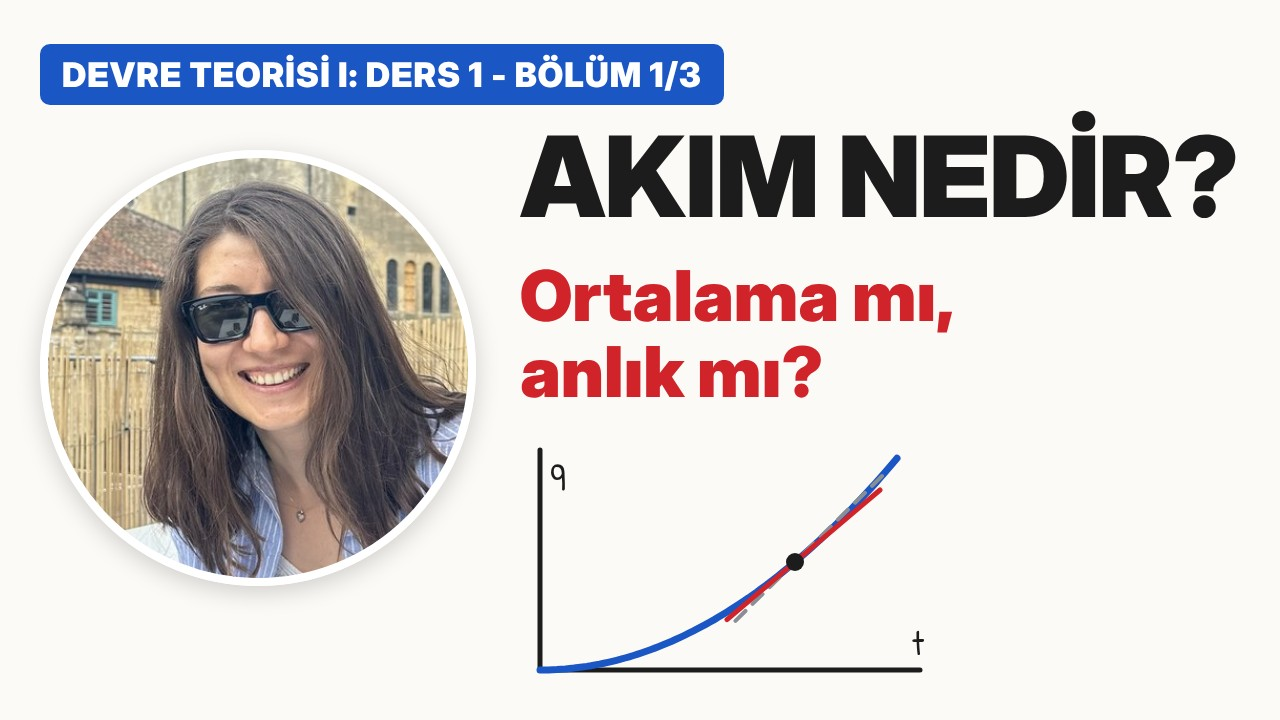
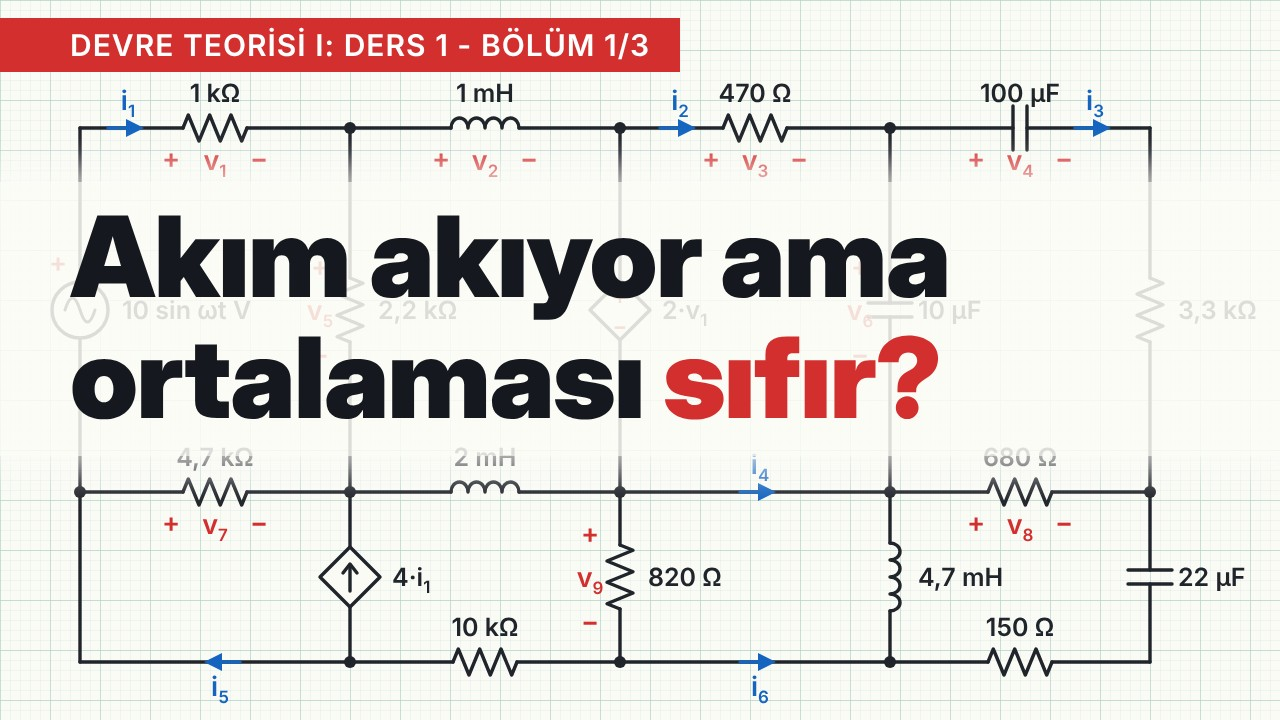
İş emri J: B1 kapak A 6-D tarzı devreyle (kareli zemin, 8 çevre, 2 bağımlı kaynak); eski kapak -eski.jpg; yayin.json başlık A; küçük boyut testi
Claude-Session: https://claude.ai/code/session_01Bss84zN8K5Kp8mdQpGyqaB

diff --git a/uzun/kapak-6-d/html/1-1-a.html b/uzun/kapak-6-d/html/1-1-a.html
@@ -1,0 +1,24 @@
+<!doctype html><meta charset="utf-8"><style>@font-face{font-family:IDB;src:url(../../../tools/vendor/fonts/InterDisplay-Black.otf)}
+@font-face{font-family:ISB;src:url(../../../tools/vendor/fonts/Inter-SemiBold.otf)}
+html,body{margin:0}
+.k{position:relative;width:1280px;height:720px;overflow:hidden;background:#fbfbf6}
+.devre{position:absolute;inset:0;width:1280px;height:720px}
+.devre .g1{fill:none;stroke:#b9d6cf;stroke-width:.7;opacity:.55}
+.devre .g2{fill:none;stroke:#8fbfb4;stroke-width:1.3;opacity:.6}
+.sema line,.sema polyline,.sema path,.sema circle,.sema polygon{stroke:#20242b;stroke-width:3.4;fill:none;stroke-linecap:round;stroke-linejoin:round}
+.sema .src{fill:#fbfbf6}
+.sema .sin{stroke-width:3}
+.sema circle.d{fill:#20242b;stroke:none}
+.sema text{font-family:ISB;font-size:25px;fill:#20242b}
+.sema text .sub{font-size:17px}
+.sema text.p{fill:#d32f2f;font-size:27px}
+.sema text.pk{font-size:22px;fill:#d32f2f}
+.sema text.a{fill:#1565c0;font-size:27px}
+.sema line.ab{stroke:#1565c0;stroke-width:3.4}
+.sema polygon.a{fill:#1565c0;stroke:none}
+.bant{position:absolute;left:0;right:0;top:182px;height:274px;background:rgba(251,251,246,.86);box-shadow:0 0 30px 18px rgba(251,251,246,.7)}
+.yazi{position:absolute;left:70px;top:196px;width:1140px}
+.s1,.s2{font-family:IDB;color:#15191f;font-size:112px;line-height:1.08;letter-spacing:-1.5px;white-space:nowrap}
+.s2 em{font-style:normal;color:#d32f2f}
+.serit{position:absolute;left:0;top:18px;background:#d32f2f;color:#fff;font-family:ISB;font-size:30px;letter-spacing:1px;padding:9px 30px 9px 70px}
+</style><body><div class="k"><svg class="devre" viewBox="0 0 1280 720" xmlns="http://www.w3.org/2000/svg"><defs><pattern id="mm" width="10" height="10" patternUnits="userSpaceOnUse"><path d="M10,0 L0,0 0,10" class="g1"/></pattern><pattern id="cm" width="50" height="50" patternUnits="userSpaceOnUse"><rect width="50" height="50" fill="url(#mm)"/><path d="M50,0 L0,0 0,50" class="g2"/></pattern></defs><rect width="1280" height="720" fill="url(#cm)"/><g class="sema"><line x1="80" y1="128" x2="183.0" y2="128.0"/><line x1="247.0" y1="128.0" x2="350" y2="128"/><g transform="translate(215.0,128.0) rotate(0)"><polyline points="-32.0,0.0 -26.7,-13.0 -16.0,13.0 -5.3,-13.0 5.3,13.0 16.0,-13.0 26.7,13.0 32.0,0.0"/></g><text x="215" y="102" class="l" text-anchor="middle">1 kΩ</text><text x="171" y="168" class="p" text-anchor="middle">+</text><text x="259" y="168" class="p" text-anchor="middle">−</text><text x="215" y="170" class="p" text-anchor="middle">v<tspan class="sub" dy="7">1</tspan></text><line x1="350" y1="128" x2="451.0" y2="128.0"/><line x1="519.0" y1="128.0" x2="620" y2="128"/><g transform="translate(485.0,128.0) rotate(0)"><path d="M-34,0 a8.5,10 0 0 1 17,0 a8.5,10 0 0 1 17,0 a8.5,10 0 0 1 17,0 a8.5,10 0 0 1 17,0"/></g><text x="485" y="102" class="l" text-anchor="middle">1 mH</text><text x="441" y="168" class="p" text-anchor="middle">+</text><text x="529" y="168" class="p" text-anchor="middle">−</text><text x="485" y="170" class="p" text-anchor="middle">v<tspan class="sub" dy="7">2</tspan></text><line x1="620" y1="128" x2="723.0" y2="128.0"/><line x1="787.0" y1="128.0" x2="890" y2="128"/><g transform="translate(755.0,128.0) rotate(0)"><polyline points="-32.0,0.0 -26.7,-13.0 -16.0,13.0 -5.3,-13.0 5.3,13.0 16.0,-13.0 26.7,13.0 32.0,0.0"/></g><text x="755" y="102" class="l" text-anchor="middle">470 Ω</text><text x="711" y="168" class="p" text-anchor="middle">+</text><text x="799" y="168" class="p" text-anchor="middle">−</text><text x="755" y="170" class="p" text-anchor="middle">v<tspan class="sub" dy="7">3</tspan></text><line x1="890" y1="128" x2="1013.0" y2="128.0"/><line x1="1027.0" y1="128.0" x2="1150" y2="128"/><g transform="translate(1020.0,128.0) rotate(0)"><line x1="-7" y1="-22" x2="-7" y2="22"/><line x1="7" y1="-22" x2="7" y2="22"/></g><text x="1020" y="102" class="l" text-anchor="middle">100 µF</text><text x="976" y="168" class="p" text-anchor="middle">+</text><text x="1064" y="168" class="p" text-anchor="middle">−</text><text x="1020" y="170" class="p" text-anchor="middle">v<tspan class="sub" dy="7">4</tspan></text><line x1="80" y1="492" x2="80.0" y2="338.0"/><line x1="80.0" y1="282.0" x2="80" y2="128"/><g transform="translate(80.0,310.0) rotate(0)"><circle cx="0" cy="0" r="28" class="src"/><path d="M-15,0 C-10,-16 -5,-16 0,0 S10,16 15,0" class="sin"/></g><text x="58" y="272" class="p" text-anchor="middle">+</text><text x="122" y="319" class="l" text-anchor="start">10 sin ωt V</text><line x1="350" y1="128" x2="350.0" y2="278.0"/><line x1="350.0" y1="342.0" x2="350" y2="492"/><g transform="translate(350.0,310.0) rotate(90)"><polyline points="-32.0,0.0 -26.7,-13.0 -16.0,13.0 -5.3,-13.0 5.3,13.0 16.0,-13.0 26.7,13.0 32.0,0.0"/></g><text x="378" y="319" class="l" text-anchor="start">2,2 kΩ</text><text x="320" y="276" class="p" text-anchor="middle">+</text><text x="320" y="364" class="p" text-anchor="middle">−</text><text x="320" y="320" class="p" text-anchor="middle">v<tspan class="sub" dy="7">5</tspan></text><line x1="620" y1="128" x2="620.0" y2="280.0"/><line x1="620.0" y1="340.0" x2="620" y2="492"/><g transform="translate(620.0,310.0) rotate(90)"><polygon points="-30,0 0,-30 30,0 0,30" class="src"/></g><text x="620" y="304" class="pk" text-anchor="middle">+</text><text x="620" y="334" class="pk" text-anchor="middle">−</text><text x="662" y="319" class="l" text-anchor="start">2·v<tspan class="sub" dy="7">1</tspan></text><line x1="890" y1="128" x2="890.0" y2="303.0"/><line x1="890.0" y1="317.0" x2="890" y2="492"/><g transform="translate(890.0,310.0) rotate(90)"><line x1="-7" y1="-22" x2="-7" y2="22"/><line x1="7" y1="-22" x2="7" y2="22"/></g><text x="918" y="319" class="l" text-anchor="start">10 µF</text><text x="860" y="276" class="p" text-anchor="middle">+</text><text x="860" y="364" class="p" text-anchor="middle">−</text><text x="860" y="320" class="p" text-anchor="middle">v<tspan class="sub" dy="7">6</tspan></text><line x1="1150" y1="128" x2="1150.0" y2="278.0"/><line x1="1150.0" y1="342.0" x2="1150" y2="492"/><g transform="translate(1150.0,310.0) rotate(90)"><polyline points="-32.0,0.0 -26.7,-13.0 -16.0,13.0 -5.3,-13.0 5.3,13.0 16.0,-13.0 26.7,13.0 32.0,0.0"/></g><text x="1178" y="319" class="l" text-anchor="start">3,3 kΩ</text><line x1="80" y1="492" x2="183.0" y2="492.0"/><line x1="247.0" y1="492.0" x2="350" y2="492"/><g transform="translate(215.0,492.0) rotate(0)"><polyline points="-32.0,0.0 -26.7,-13.0 -16.0,13.0 -5.3,-13.0 5.3,13.0 16.0,-13.0 26.7,13.0 32.0,0.0"/></g><text x="215" y="466" class="l" text-anchor="middle">4,7 kΩ</text><text x="171" y="532" class="p" text-anchor="middle">+</text><text x="259" y="532" class="p" text-anchor="middle">−</text><text x="215" y="534" class="p" text-anchor="middle">v<tspan class="sub" dy="7">7</tspan></text><line x1="350" y1="492" x2="451.0" y2="492.0"/><line x1="519.0" y1="492.0" x2="620" y2="492"/><g transform="translate(485.0,492.0) rotate(0)"><path d="M-34,0 a8.5,10 0 0 1 17,0 a8.5,10 0 0 1 17,0 a8.5,10 0 0 1 17,0 a8.5,10 0 0 1 17,0"/></g><text x="485" y="466" class="l" text-anchor="middle">2 mH</text><line x1="620" y1="492" x2="890" y2="492"/><line x1="890" y1="492" x2="988.0" y2="492.0"/><line x1="1052.0" y1="492.0" x2="1150" y2="492"/><g transform="translate(1020.0,492.0) rotate(0)"><polyline points="-32.0,0.0 -26.7,-13.0 -16.0,13.0 -5.3,-13.0 5.3,13.0 16.0,-13.0 26.7,13.0 32.0,0.0"/></g><text x="1020" y="466" class="l" text-anchor="middle">680 Ω</text><text x="976" y="532" class="p" text-anchor="middle">+</text><text x="1064" y="532" class="p" text-anchor="middle">−</text><text x="1020" y="534" class="p" text-anchor="middle">v<tspan class="sub" dy="7">8</tspan></text><line x1="80" y1="492" x2="80" y2="662"/><line x1="350" y1="662" x2="350.0" y2="607.0"/><line x1="350.0" y1="547.0" x2="350" y2="492"/><g transform="translate(350.0,577.0) rotate(270)"><polygon points="-30,0 0,-30 30,0 0,30" class="src"/><line x1="-14" y1="0" x2="12" y2="0"/><polyline points="4,-7 13,0 4,7"/></g><text x="392" y="586" class="l" text-anchor="start">4·i<tspan class="sub" dy="7">1</tspan></text><line x1="620" y1="492" x2="620.0" y2="545.0"/><line x1="620.0" y1="609.0" x2="620" y2="662"/><g transform="translate(620.0,577.0) rotate(90)"><polyline points="-32.0,0.0 -26.7,-13.0 -16.0,13.0 -5.3,-13.0 5.3,13.0 16.0,-13.0 26.7,13.0 32.0,0.0"/></g><text x="648" y="586" class="l" text-anchor="start">820 Ω</text><text x="590" y="543" class="p" text-anchor="middle">+</text><text x="590" y="631" class="p" text-anchor="middle">−</text><text x="590" y="587" class="p" text-anchor="middle">v<tspan class="sub" dy="7">9</tspan></text><line x1="890" y1="492" x2="890.0" y2="543.0"/><line x1="890.0" y1="611.0" x2="890" y2="662"/><g transform="translate(890.0,577.0) rotate(90)"><path d="M-34,0 a8.5,10 0 0 1 17,0 a8.5,10 0 0 1 17,0 a8.5,10 0 0 1 17,0 a8.5,10 0 0 1 17,0"/></g><text x="918" y="586" class="l" text-anchor="start">4,7 mH</text><line x1="1150" y1="492" x2="1150.0" y2="570.0"/><line x1="1150.0" y1="584.0" x2="1150" y2="662"/><g transform="translate(1150.0,577.0) rotate(90)"><line x1="-7" y1="-22" x2="-7" y2="22"/><line x1="7" y1="-22" x2="7" y2="22"/></g><text x="1178" y="586" class="l" text-anchor="start">22 µF</text><line x1="80" y1="662" x2="350" y2="662"/><line x1="350" y1="662" x2="453.0" y2="662.0"/><line x1="517.0" y1="662.0" x2="620" y2="662"/><g transform="translate(485.0,662.0) rotate(0)"><polyline points="-32.0,0.0 -26.7,-13.0 -16.0,13.0 -5.3,-13.0 5.3,13.0 16.0,-13.0 26.7,13.0 32.0,0.0"/></g><text x="485" y="636" class="l" text-anchor="middle">10 kΩ</text><line x1="620" y1="662" x2="890" y2="662"/><line x1="890" y1="662" x2="988.0" y2="662.0"/><line x1="1052.0" y1="662.0" x2="1150" y2="662"/><g transform="translate(1020.0,662.0) rotate(0)"><polyline points="-32.0,0.0 -26.7,-13.0 -16.0,13.0 -5.3,-13.0 5.3,13.0 16.0,-13.0 26.7,13.0 32.0,0.0"/></g><text x="1020" y="636" class="l" text-anchor="middle">150 Ω</text><circle cx="350" cy="128" r="6" class="d"/><circle cx="350" cy="662" r="6" class="d"/><circle cx="620" cy="128" r="6" class="d"/><circle cx="620" cy="662" r="6" class="d"/><circle cx="890" cy="128" r="6" class="d"/><circle cx="890" cy="662" r="6" class="d"/><circle cx="80" cy="492" r="6" class="d"/><circle cx="350" cy="492" r="6" class="d"/><circle cx="620" cy="492" r="6" class="d"/><circle cx="890" cy="492" r="6" class="d"/><circle cx="1150" cy="492" r="6" class="d"/><line class="ab" x1="108" y1="128" x2="134" y2="128"/><polygon class="a" points="144,128 126,137 126,119"/><text x="128" y="110" class="a" text-anchor="middle">i<tspan class="sub" dy="7">1</tspan></text><line class="ab" x1="660" y1="128" x2="686" y2="128"/><polygon class="a" points="696,128 678,137 678,119"/><text x="680" y="110" class="a" text-anchor="middle">i<tspan class="sub" dy="7">2</tspan></text><line class="ab" x1="1075" y1="128" x2="1101" y2="128"/><polygon class="a" points="1111,128 1093,137 1093,119"/><text x="1095" y="110" class="a" text-anchor="middle">i<tspan class="sub" dy="7">3</tspan></text><line class="ab" x1="740" y1="492" x2="766" y2="492"/><polygon class="a" points="776,492 758,501 758,483"/><text x="760" y="474" class="a" text-anchor="middle">i<tspan class="sub" dy="7">4</tspan></text><line class="ab" x1="240" y1="662" x2="214" y2="662"/><polygon class="a" points="204,662 222,653 222,671"/><text x="220" y="696" class="a" text-anchor="middle">i<tspan class="sub" dy="7">5</tspan></text><line class="ab" x1="740" y1="662" x2="766" y2="662"/><polygon class="a" points="776,662 758,671 758,653"/><text x="760" y="696" class="a" text-anchor="middle">i<tspan class="sub" dy="7">6</tspan></text></g></svg><div class="bant"></div><div class="yazi"><div class="s1">Akım akıyor ama</div><div class="s2">ortalaması <em>sıfır?</em></div></div><div class="serit">DEVRE TEORİSİ I: DERS 1 - BÖLÜM 1/3</div></div>

diff --git a/uzun/kapak-6-d/kapak.css b/uzun/kapak-6-d/kapak.css
@@ -1,0 +1,23 @@
+@font-face{font-family:IDB;src:url(../../../tools/vendor/fonts/InterDisplay-Black.otf)}
+@font-face{font-family:ISB;src:url(../../../tools/vendor/fonts/Inter-SemiBold.otf)}
+html,body{margin:0}
+.k{position:relative;width:1280px;height:720px;overflow:hidden;background:#fbfbf6}
+.devre{position:absolute;inset:0;width:1280px;height:720px}
+.devre .g1{fill:none;stroke:#b9d6cf;stroke-width:.7;opacity:.55}
+.devre .g2{fill:none;stroke:#8fbfb4;stroke-width:1.3;opacity:.6}
+.sema line,.sema polyline,.sema path,.sema circle,.sema polygon{stroke:#20242b;stroke-width:3.4;fill:none;stroke-linecap:round;stroke-linejoin:round}
+.sema .src{fill:#fbfbf6}
+.sema .sin{stroke-width:3}
+.sema circle.d{fill:#20242b;stroke:none}
+.sema text{font-family:ISB;font-size:25px;fill:#20242b}
+.sema text .sub{font-size:17px}
+.sema text.p{fill:#d32f2f;font-size:27px}
+.sema text.pk{font-size:22px;fill:#d32f2f}
+.sema text.a{fill:#1565c0;font-size:27px}
+.sema line.ab{stroke:#1565c0;stroke-width:3.4}
+.sema polygon.a{fill:#1565c0;stroke:none}
+.bant{position:absolute;left:0;right:0;top:182px;height:274px;background:rgba(251,251,246,.86);box-shadow:0 0 30px 18px rgba(251,251,246,.7)}
+.yazi{position:absolute;left:70px;top:196px;width:1140px}
+.s1,.s2{font-family:IDB;color:#15191f;font-size:112px;line-height:1.08;letter-spacing:-1.5px;white-space:nowrap}
+.s2 em{font-style:normal;color:#d32f2f}
+.serit{position:absolute;left:0;top:18px;background:#d32f2f;color:#fff;font-family:ISB;font-size:30px;letter-spacing:1px;padding:9px 30px 9px 70px}

diff --git a/uzun/kapak-6-d/devre.py b/uzun/kapak-6-d/devre.py
@@ -1,0 +1,153 @@
+#!/usr/bin/env python3
+"""Kapak arka plan devresi, UZUN.md 6-D tarzı (kanal sahibi 20.11.2026):
+kareli açık zemin, ders kitabı şeması (sinüs kaynak, bağımlı kaynaklar, R/L/C değerleri),
+kırmızı + / − ve v1…v9, mavi akım okları i1…i6, düğüm noktaları. Topolojiler özgündür.
+Kullanım: python3 devre.py  -> uzun/kapak-6-d/html/<ad>.html   (render: node kapak.mjs CIKTI)"""
+import math, os
+HERE = os.path.dirname(os.path.abspath(__file__))
+S = []
+
+def P(s): S.append(s)
+def ln(a, b): P(f'<line x1="{a[0]}" y1="{a[1]}" x2="{b[0]}" y2="{b[1]}"/>')
+def dot(p): P(f'<circle cx="{p[0]}" cy="{p[1]}" r="6" class="d"/>')
+def lab(x, y, base, sub=None, cls='l', anc='middle'):
+    t = f'<text x="{x:.0f}" y="{y:.0f}" class="{cls}" text-anchor="{anc}">{base}'
+    if sub: t += f'<tspan class="sub" dy="7">{sub}</tspan>'
+    P(t + '</text>')
+
+# --- eleman gövdeleri: yerel eksende (0,0)->(L,0) ortalanmış, sonra döndürülür ----------
+def body(kind, Lb):
+    if kind == 'R':
+        pts = [(-32, 0)] + [(-32 + 64 * (k + .5) / 6, -13 if k % 2 == 0 else 13) for k in range(6)] + [(32, 0)]
+        return '<polyline points="' + ' '.join(f'{x:.1f},{y:.1f}' for x, y in pts) + '"/>'
+    if kind == 'L':
+        return '<path d="M-34,0 ' + ' '.join('a8.5,10 0 0 1 17,0' for _ in range(4)) + '"/>'
+    if kind == 'C':
+        return '<line x1="-7" y1="-22" x2="-7" y2="22"/><line x1="7" y1="-22" x2="7" y2="22"/>'
+    if kind == 'AC':  # sinüs gerilim kaynağı
+        return ('<circle cx="0" cy="0" r="28" class="src"/>'
+                '<path d="M-15,0 C-10,-16 -5,-16 0,0 S10,16 15,0" class="sin"/>')
+    if kind in ('DV', 'DI'):  # bağımlı kaynak: eşkenar dörtgen
+        s = '<polygon points="-30,0 0,-30 30,0 0,30" class="src"/>'
+        if kind == 'DI':  # yerel eksen yönünde ok (akım kaynağı)
+            s += '<line x1="-14" y1="0" x2="12" y2="0"/><polyline points="4,-7 13,0 4,7"/>'
+        return s
+    return ''
+HALF = {'R': 32, 'L': 34, 'C': 7, 'AC': 28, 'DV': 30, 'DI': 30, 'W': 0}
+
+def el(kind, a, b, val=None, v=None, flip=False, vsub=None):
+    """a->b yatay veya dikey eleman. val: değer etiketi (siyah). v: gerilim etiketi alt simgesi
+    (kırmızı + a tarafında, − b tarafında; flip=True ters). Bağımlı DV: +/− gövde içinde."""
+    x1, y1 = a; x2, y2 = b
+    mx, my = (x1 + x2) / 2, (y1 + y2) / 2
+    hor = abs(y2 - y1) < 1
+    ang = 0 if hor else 90
+    if (hor and x2 < x1) or (not hor and y2 < y1): ang += 180
+    h = HALF[kind]
+    if kind == 'W':
+        ln(a, b); return
+    ux, uy = (1, 0) if hor else (0, 1)
+    sg = 1 if (hor and x2 > x1) or (not hor and y2 > y1) else -1
+    ln(a, (mx - sg * ux * h, my - sg * uy * h)); ln((mx + sg * ux * h, my + sg * uy * h), b)
+    P(f'<g transform="translate({mx},{my}) rotate({0 if kind == 'AC' else ang})">{body(kind, 0)}</g>')
+    if kind == 'AC':  # + ucu b tarafında (kaynak a->b yönünde yükseltir)
+        if hor: lab(mx + sg * 42, my - 12, '+', cls='p')
+        else: lab(mx - 22, my + sg * 46 + 8, '+', cls='p')
+    if kind == 'DV':
+        o = 15
+        if hor: lab(mx - sg * o, my + 9, '+', cls='pk'); lab(mx + sg * o, my + 9, '−', cls='pk')
+        else: lab(mx, my - sg * o + 9, '+', cls='pk'); lab(mx, my + sg * o + 9, '−', cls='pk')
+    if val:
+        if hor: lab(mx, my - (40 if kind in ('AC', 'DV', 'DI') else 26), val[0], val[1] if len(val) > 1 else None)
+        else: lab(mx + (42 if kind in ('AC', 'DV', 'DI') else 28), my + 9, val[0], val[1] if len(val) > 1 else None, anc='start')
+    if v:
+        s1, s2 = ('−', '+') if flip else ('+', '−')
+        d = 44
+        if hor:
+            lab(mx - sg * d, my + 40, s1, cls='p'); lab(mx + sg * d, my + 40, s2, cls='p')
+            lab(mx, my + 42, 'v', v, cls='p')
+        else:
+            lab(mx - 30, my - sg * d + 10, s1, cls='p'); lab(mx - 30, my + sg * d + 10, s2, cls='p')
+            lab(mx - 30, my + 10, 'v', v, cls='p', anc='middle')
+
+def arr(p, d, k, side=1):
+    """Mavi akım oku: p merkez, d yön r/l/u/d, k alt simge."""
+    x, y = p
+    vx, vy = {'r': (1, 0), 'l': (-1, 0), 'u': (0, -1), 'd': (0, 1)}[d]
+    px, py = -vy, vx
+    P(f'<line class="ab" x1="{x - vx * 20}" y1="{y - vy * 20}" x2="{x + vx * 6}" y2="{y + vy * 6}"/>')
+    P(f'<polygon class="a" points="{x + vx * 16},{y + vy * 16} {x - vx * 2 + px * 9},{y - vy * 2 + py * 9} {x - vx * 2 - px * 9},{y - vy * 2 - py * 9}"/>')
+    if d in 'rl': lab(x, y - 18 * side if side > 0 else y + 34, 'i', k, cls='a')
+    else: lab(x + 18, y + 8, 'i', k, cls='a', anc='start')
+
+# --- topolojiler (hepsi özgün) ------------------------------------------------------------
+def devre_a():
+    """Bölüm 1 kapak A: 4×2 çevreli ağ; sinüs kaynak, gerilim kontrollü gerilim kaynağı 2·v1,
+    akım kontrollü akım kaynağı 4·i1."""
+    X = [80, 350, 620, 890, 1150]; T, M, B = 128, 492, 662
+    # üst hat
+    el('R', (X[0], T), (X[1], T), ('1 kΩ',), '1')
+    el('L', (X[1], T), (X[2], T), ('1 mH',), '2')
+    el('R', (X[2], T), (X[3], T), ('470 Ω',), '3')
+    el('C', (X[3], T), (X[4], T), ('100 µF',), '4')
+    # üst dikeyler
+    el('AC', (X[0], M), (X[0], T), ('10 sin ωt V',))
+    el('R', (X[1], T), (X[1], M), ('2,2 kΩ',), '5')
+    el('DV', (X[2], T), (X[2], M), ('2·v', '1'))
+    el('C', (X[3], T), (X[3], M), ('10 µF',), '6')
+    el('R', (X[4], T), (X[4], M), ('3,3 kΩ',))
+    # orta hat
+    el('R', (X[0], M), (X[1], M), ('4,7 kΩ',), '7')
+    el('L', (X[1], M), (X[2], M), ('2 mH',))
+    el('W', (X[2], M), (X[3], M))
+    el('R', (X[3], M), (X[4], M), ('680 Ω',), '8')
+    # alt dikeyler
+    el('W', (X[0], M), (X[0], B))
+    el('DI', (X[1], B), (X[1], M), ('4·i', '1'))
+    el('R', (X[2], M), (X[2], B), ('820 Ω',), '9')
+    el('L', (X[3], M), (X[3], B), ('4,7 mH',))
+    el('C', (X[4], M), (X[4], B), ('22 µF',))
+    # alt hat
+    el('W', (X[0], B), (X[1], B))
+    el('R', (X[1], B), (X[2], B), ('10 kΩ',))
+    el('W', (X[2], B), (X[3], B))
+    el('R', (X[3], B), (X[4], B), ('150 Ω',))
+    for x in X[1:4]: dot((x, T)); dot((x, B))
+    for x in X: dot((x, M))
+    arr((X[0] + 48, T), 'r', '1')
+    arr((X[2] + 60, T), 'r', '2')
+    arr((X[3] + 205, T), 'r', '3')
+    arr((X[2] + 140, M), 'r', '4')
+    arr((X[0] + 140, B), 'l', '5', side=-1)
+    arr((X[2] + 140, B), 'r', '6', side=-1)
+
+DEVRELER = {'a': devre_a}
+KAPAKLAR = [
+    # ad, devre, satır1, satır2 (vurgu <em>), şerit
+    ('1-1-a', 'a', 'Akım akıyor ama', 'ortalaması <em>sıfır?</em>', 'DEVRE TEORİSİ I: DERS 1 - BÖLÜM 1/3'),
+]
+
+def izgara():
+    return ('<defs><pattern id="mm" width="10" height="10" patternUnits="userSpaceOnUse">'
+            '<path d="M10,0 L0,0 0,10" class="g1"/></pattern>'
+            '<pattern id="cm" width="50" height="50" patternUnits="userSpaceOnUse">'
+            '<rect width="50" height="50" fill="url(#mm)"/><path d="M50,0 L0,0 0,50" class="g2"/></pattern></defs>'
+            '<rect width="1280" height="720" fill="url(#cm)"/>')
+
+def svg():
+    o = '<svg class="devre" viewBox="0 0 1280 720" xmlns="http://www.w3.org/2000/svg">' + izgara() + '<g class="sema">' + ''.join(S) + '</g></svg>'
+    S.clear(); return o
+
+if __name__ == '__main__':
+    import sys
+    CSS = open(os.path.join(HERE, 'kapak.css')).read()
+    os.makedirs(os.path.join(HERE, 'html'), exist_ok=True)
+    sec = sys.argv[1:] or [k[0] for k in KAPAKLAR]
+    for ad, dv, s1, s2, serit in KAPAKLAR:
+        if ad not in sec: continue
+        DEVRELER[dv](); g = svg()
+        h = (f'<!doctype html><meta charset="utf-8"><style>{CSS}</style><body><div class="k">{g}'
+             f'<div class="bant"></div><div class="yazi"><div class="s1">{s1}</div><div class="s2">{s2}</div></div>'
+             f'<div class="serit">{serit}</div></div>')
+        open(os.path.join(HERE, 'html', ad + '.html'), 'w').write(h)
+        print('->', ad)
